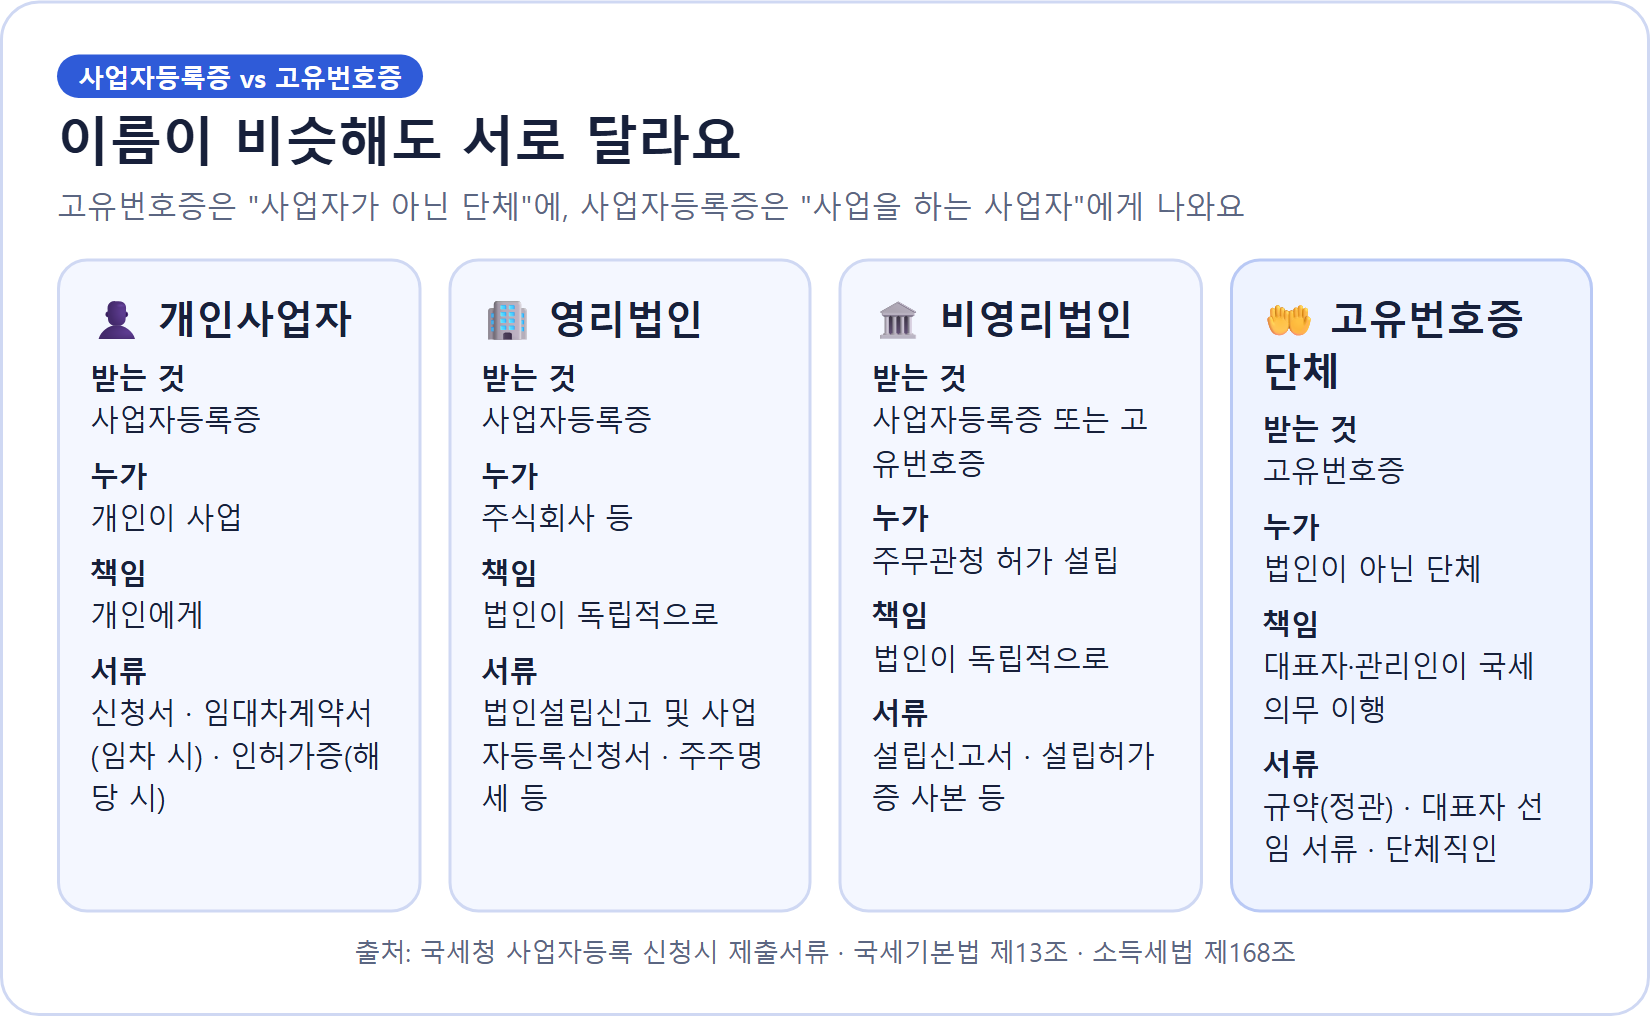
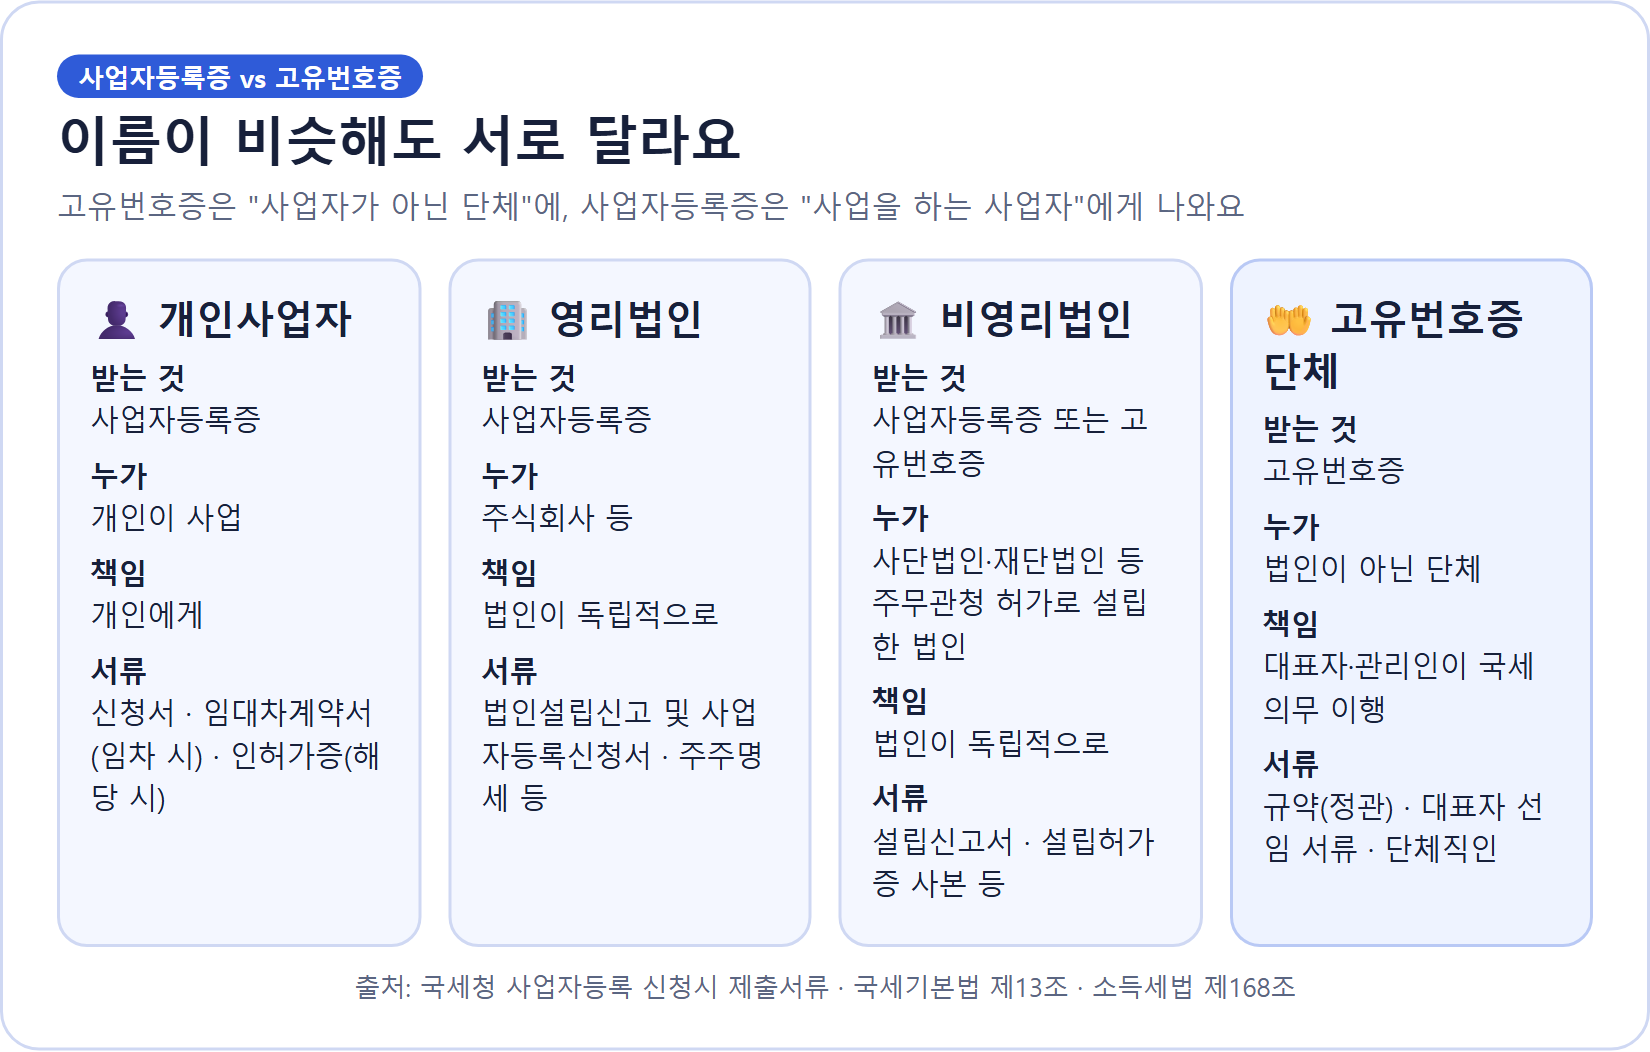
코치노트 11번: 사단·재단은 법인, 허가·설립등기 안 된 모임이 '법인 아닌 단체'로 표현·그림 바로잡음 (팁 콘텐츠 봇)

Changed region(s): [[0.0309, 0.2439, 0.9582, 0.8535], [0.0309, 0.061, 0.7727, 0.2134], [0.0309, 0.884, 0.9582, 0.9449]]

diff --git a/자료/가이드/11_사업자등록증과_고유번호증_차이.md b/자료/가이드/11_사업자등록증과_고유번호증_차이.md
@@ -17,11 +17,12 @@
 
 | 말 | 법인인가요? | 뜻 |
 |---|---|---|
-| **법인** | 예 | 영리법인(주식회사 등)과 비영리법인. 비영리법인은 예를 들어 민법 제32조에 따라 설립된 법인이에요. |
-| **법인 아닌 단체** | 아니요 | 법인이 아닌 사단·재단·그 밖의 단체(동호회, 협회, 예술단체 등). 국세기본법 제13조의 말이에요. |
+| **법인** | 예 | 영리법인(주식회사 등)과 비영리법인. **사단법인·재단법인**은 주무관청의 허가를 받고 설립등기를 해서 법인이 된 곳이에요(민법 제32조·제33조). |
+| **법인 아닌 단체** | 아니요 | 허가·설립등기로 **법인이 되지 않은** 모임(동호회, 협회, 예술단체 등). 법에서는 "법인이 아닌 사단·재단·그 밖의 단체"라고 해요(국세기본법 제13조). |
 | **법인으로 보는 단체** | **아니요** | 법인이 아닌 단체인데, **세법을 적용할 때만** 법인으로 '보는' 단체예요. 세무서의 승인이 필요해요. |
 | **개인으로 보는 단체** | 아니요 | 법인으로 보는 단체가 아닌 법인 아닌 단체는 소득세법에서 **1거주자(개인)** 로 봐요. (구성원 간 이익 분배 비율이 정해져 있는 경우 등 예외가 있어요.) |
 
+- **"사단"과 "재단"이라는 말은 법인이 된 곳에도, 안 된 곳에도 써요.** 사단은 사람들의 모임, 재단은 재산의 모음이에요. 비영리 사단이나 재단이 주무관청의 허가를 받고 설립등기를 하면 **사단법인·재단법인**(법인)이 되고(민법 제32조·제33조), 그렇게 하지 않은 곳이 "법인이 아닌 사단·재단"이에요. 그래서 사단법인·재단법인은 법인이고, 허가·등기를 하지 않은 협회·동호회는 법인이 아니에요.
 - "법인으로 보는 단체"는 **세법에서만** 그렇게 다뤄요. 법인세법은 이 단체를 비영리 내국법인에 포함해 법인세 규칙을 적용해요. 법인으로 설립됐다는 뜻은 아니에요.
 - 비영리법인도 수익사업을 하지 않으면 사업자등록번호 대신 **고유번호**를 받을 수 있어요(법인세법 시행령 제154조 제3항). 그래서 고유번호가 있다는 것만으로는 법인인지 단체인지 알 수 없고, **그 서류를 받은 주체가 법인인지 단체인지**를 봐야 해요.
 
@@ -110,4 +111,4 @@
 - 고유번호증은 단체라서 **정관(규약), 대표자 선임 서류, 단체직인**이 꼭 필요해요.
 - 수익사업을 시작하면 사업자등록 필요 여부를 꼭 확인하세요.
 
-> 출처: 국세청 [제출서류 및 교부](https://www.nts.go.kr/nts/ad/cntnts/cntntsView.do?mi=2445) · 국가법령정보센터 [국세기본법 제13조](https://www.law.go.kr/법령/국세기본법/제13조), [국세기본법 시행령 제8조](https://www.law.go.kr/법령/국세기본법시행령/제8조), [소득세법 제2조](https://www.law.go.kr/법령/소득세법/제2조), [소득세법 제168조](https://www.law.go.kr/법령/소득세법/제168조), [법인세법 제2조](https://www.law.go.kr/법령/법인세법/제2조), [법인세법 제110조·제111조](https://www.law.go.kr/법령/법인세법/제110조), [법인세법 시행령 제154조](https://www.law.go.kr/법령/법인세법시행령/제154조), [부가가치세법 제2조](https://www.law.go.kr/법령/부가가치세법/제2조) (2026년 11월 확인)
+> 출처: 국세청 [제출서류 및 교부](https://www.nts.go.kr/nts/ad/cntnts/cntntsView.do?mi=2445) · 국가법령정보센터 [국세기본법 제13조](https://www.law.go.kr/법령/국세기본법/제13조), [국세기본법 시행령 제8조](https://www.law.go.kr/법령/국세기본법시행령/제8조), [민법 제32조·제33조](https://www.law.go.kr/법령/민법/제32조), [소득세법 제2조](https://www.law.go.kr/법령/소득세법/제2조), [소득세법 제168조](https://www.law.go.kr/법령/소득세법/제168조), [법인세법 제2조](https://www.law.go.kr/법령/법인세법/제2조), [법인세법 제110조·제111조](https://www.law.go.kr/법령/법인세법/제110조), [법인세법 시행령 제154조](https://www.law.go.kr/법령/법인세법시행령/제154조), [부가가치세법 제2조](https://www.law.go.kr/법령/부가가치세법/제2조) (2026년 11월 확인)
